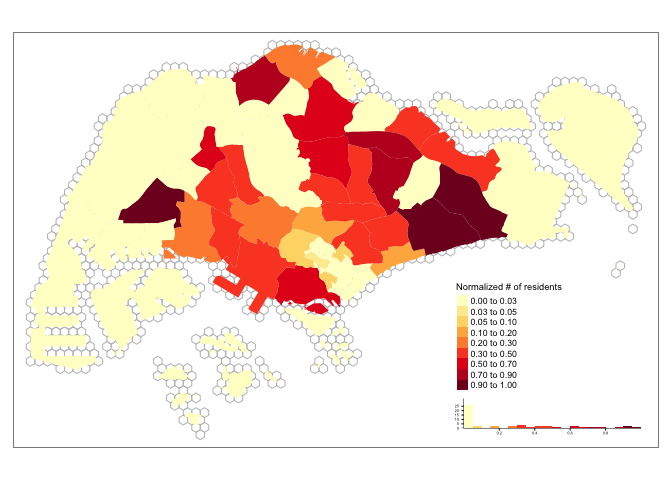
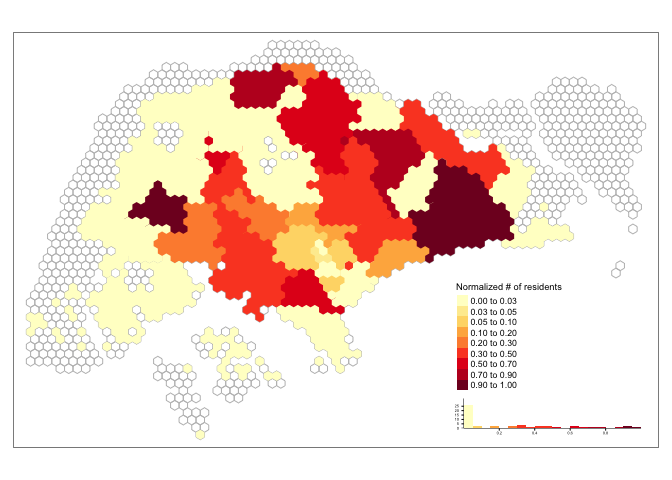
feat: update spatial distribution figures

diff --git a/analysis/02-figures-spatial-view-of-same-hm-users.md b/analysis/02-figures-spatial-view-of-same-hm-users.md
@@ -93,7 +93,10 @@ pop2015 <- st_read(here("analysis/data/raw_data/PLAN_BDY_DWELLING_TYPE_2015.shp"
   st_transform(., crs = 3414) %>% 
   st_make_valid()
 norm_pop2015 <- pop2015 %>% 
-  dplyr::select(PLN_AREA_N, TOTAL) %>% 
+  st_join(norm_home_users, .) %>% 
+  group_by(PLN_AREA_N, TOTAL) %>% 
+  summarise() %>% 
+  ungroup() %>% 
   mutate(norm_total = (TOTAL - min(TOTAL))/(max(TOTAL) - min(TOTAL)))
 ```
 
